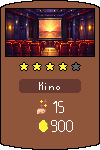
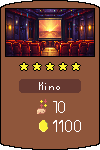
fix: balance update

Changed region(s): [[0.51, 0.8, 0.81, 0.88], [0.51, 0.6667, 0.66, 0.7467], [0.72, 0.4, 0.81, 0.48]]

diff --git a/src/globals.c b/src/globals.c
@@ -15,16 +15,24 @@ const RoomType RoomTypes[] = {
     {"FrontDesk",            1,    0,   0,     0,       0  },  // not buyable
     {"BuyNewRoom",           1,    0,   0,     0,       0  },  // not buyable
 
-    // Bedrooms (earn per guest + small base income)
-    {"room",                 1,  100,   1,     5,       5  },  // Basic room:          1 guest,  5/guest/day, +5 base
-    {"Suites",               4,  200,   5,    10,      10  },  // Suite:               5 guests, 10/guest/day, +10 base
-    {"PresidentialSuite",    5,  700,   8,    20,      20  },  // Presidential suite:  8 guests, 20/guest/day, +20 base
+    // -------------------------------------------------------
+    //  Bedrooms  (earn per guest each income tick + flat base)
+    //  Amortisation target: ~25-35 income ticks to break even
+    // -------------------------------------------------------
+    //                       lvl  cost  cap  perGuest  daily
+    {"room",                  1,   80,   1,     6,       4  },  // Basic room:  1 Gast,  6/Gast + 4 base  => 10/tick  | BEP ~8 ticks
+    {"Suites",                3,  450,   3,    12,       8  },  // Suite:       3 Gäste, 12/Gast + 8 base => 44/tick  | BEP ~11 ticks
+    {"PresidentialSuite",     6,  900,   5,    25,      15  },  // Presi-Suite: 5 Gäste, 25/Gast +15 base =>140/tick  | BEP ~7 ticks (Prestige)
 
-    // Service rooms (flat daily income, no guests)
-    {"kitchen",              2,  200,   0,     0,       5  },  // Kitchen:       200 cost,  5/day
-    {"MovieTheater",         7,  900,   0,     0,      15  },  // Movie theater: 900 cost, 15/day
-    {"Restaurant",           8,  800,   0,     0,      10  },  // Restaurant:    800 cost, 10/day
-    {"Sauna",                6,  700,   0,     0,      70  },  // Sauna:         700 cost, 70/day
+    // -------------------------------------------------------
+    //  Service rooms  (flat income, no guests, higher returns)
+    //  Amortisation target: ~20-30 income ticks
+    // -------------------------------------------------------
+    //                       lvl   cost  cap  perGuest  daily
+    {"kitchen",               2,   150,   0,     0,      10  },  // Küche:         150 cost, 10/tick  | BEP 15 ticks
+    {"Sauna",                 4,   400,   0,     0,      25  },  // Sauna:         400 cost, 25/tick  | BEP 16 ticks
+    {"Restaurant",            5,   600,   0,     0,      40  },  // Restaurant:    600 cost, 40/tick  | BEP 15 ticks
+    {"MovieTheater",          7,  1100,   0,     0,      70  },  // Kino:         1100 cost, 70/tick  | BEP ~16 ticks (late game)
 };
 
 const int RoomTypesCount = sizeof(RoomTypes) / sizeof(RoomTypes[0]);
@@ -96,20 +104,20 @@ bool RoomSelect = false;
     Player Stats
 -------------------------------------------------*/
 int levl   = 1;
-int monney = 500;
+int monney = 200;   // Startgeld: nur 1-2 Basic Rooms moeglich -> zwingt zum Wirtschaften
 int guests = 0;
 
 // XP system
-int xp           = 0;
-int xpForNextLevel = 100;   // XP needed for level 2; grows each level
+int xp             = 0;
+int xpForNextLevel = 60;    // XP needed for level 2 (schneller Start)
 
 void AddXP(int amount) {
     xp += amount;
     while (xp >= xpForNextLevel) {
         xp -= xpForNextLevel;
         levl++;
-        // Each level requires 20% more XP than the previous one
-        xpForNextLevel = (int)(xpForNextLevel * 1.2f);
+        // Jedes Level braucht 30% mehr XP als das vorherige (flacher als vorher => besser skalierend)
+        xpForNextLevel = (int)(xpForNextLevel * 1.30f);
         printf("[Level Up!] Now level %d  (next level needs %d XP)\n", levl, xpForNextLevel);
     }
 }

diff --git a/src/gamelogic.c b/src/gamelogic.c
@@ -23,10 +23,10 @@
     *** Adjust XP rewards here! ***
 -------------------------------------------------*/
 
-#define XP_PER_CHECKIN      5    // XP when a guest checks in
-#define XP_PER_CHECKOUT     2    // XP when a guest checks out
-#define XP_PER_INCOME_TICK  3    // XP each time a room earns income
-#define XP_PER_ROOM_BUY    20    // XP when a room is purchased (called from BuyRoom.c via AddXP)
+#define XP_PER_CHECKIN      8    // XP when a guest checks in
+#define XP_PER_CHECKOUT     3    // XP when a guest checks out
+#define XP_PER_INCOME_TICK  5    // XP each time a room earns income
+#define XP_PER_ROOM_BUY    30    // XP when a room is purchased (called from BuyRoom.c via AddXP)
 
 /*-------------------------------------------------
     Level-up notification state
